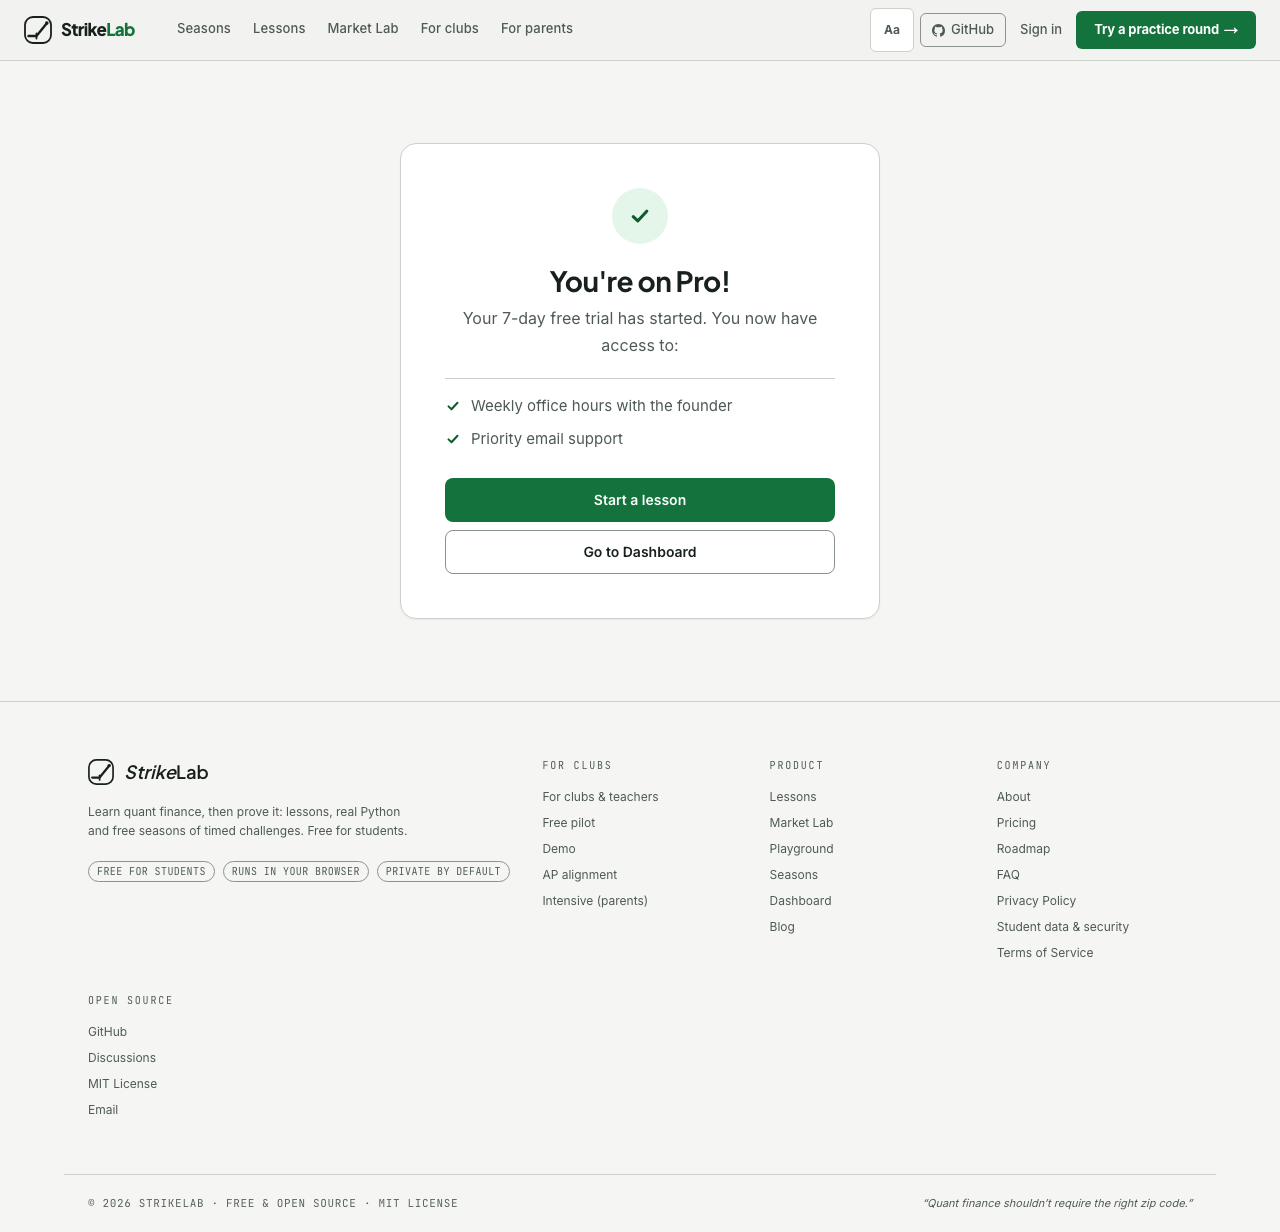
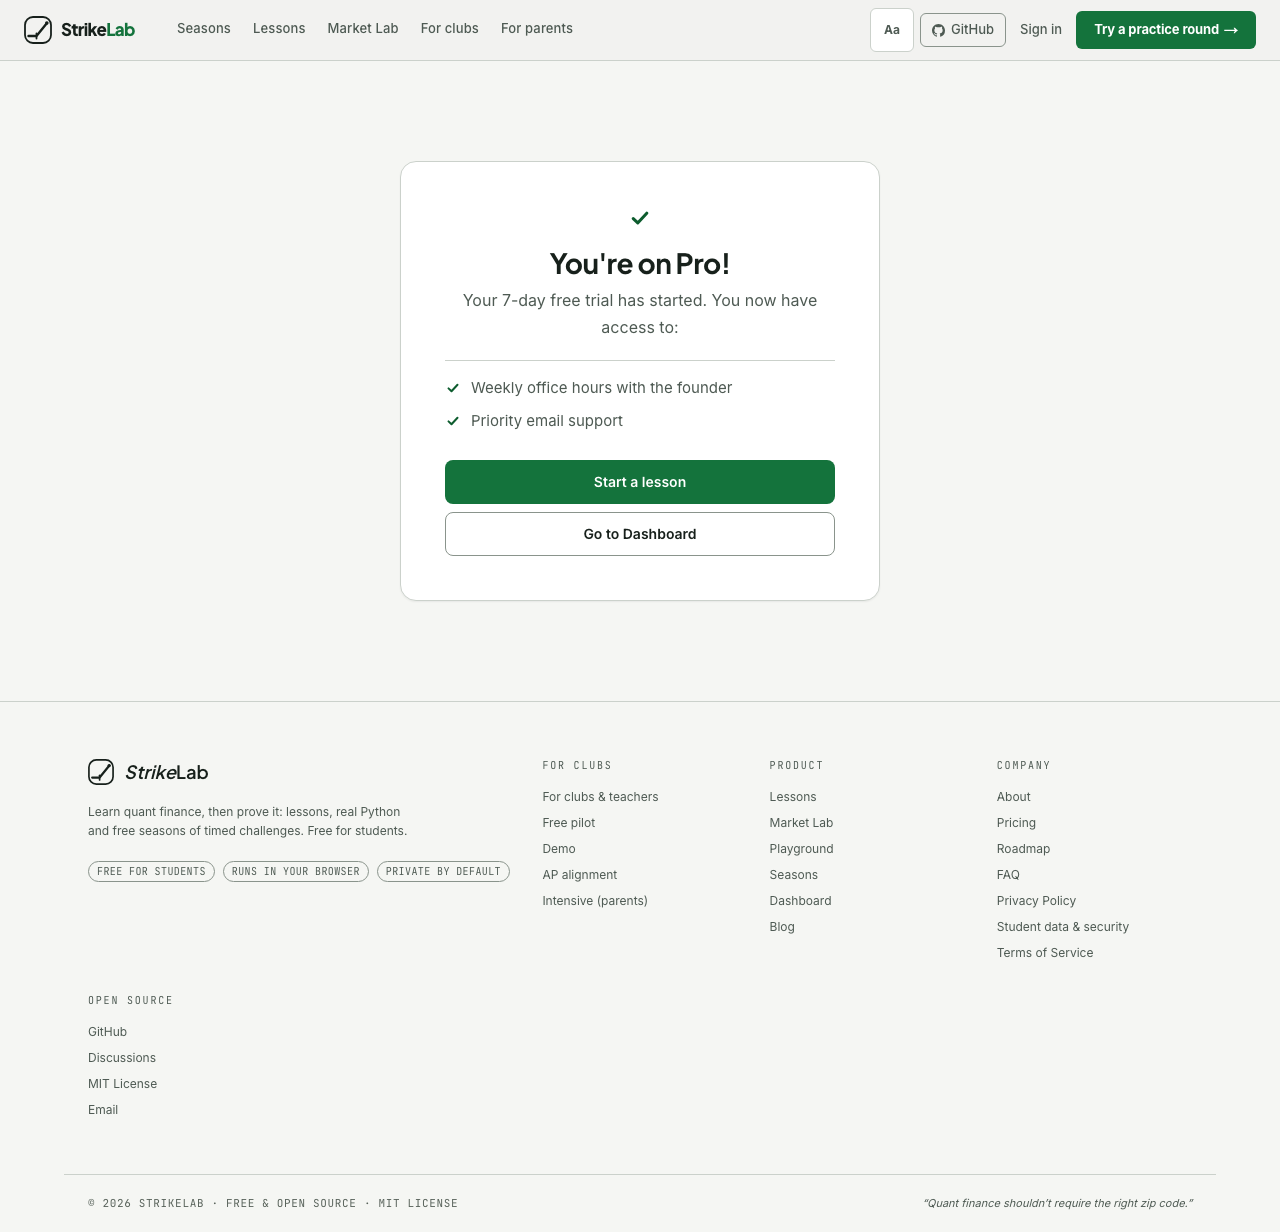
fix(seasons): review fixes for the record, countdown, parse errors and CI
- /record lists only concepts from weeks that have opened as "Tested" and
  "Assessed", so a student halfway through a season isn't credited with
  weeks that haven't run. Unverified capstones read "Not yet verified".
- The planned-start countdown finds midnight in New York for the date (EST
  or EDT) instead of assuming -05:00.
- plainParseError names the line from the student's frame first: the body
  to indent, or where a triple-quoted string opens, not the def or EOF.
- The no-database countdown test only runs while the planned start is
  still ahead, so CI stays green during the season.
- Success page: a plain glyph instead of an icon in a filled circle.

Changed region(s): [[0.3438, 0.1542, 0.6562, 0.4627]]

diff --git a/src/app/record/page.tsx b/src/app/record/page.tsx
@@ -23,10 +23,13 @@ function date(iso: string | null): string {
   return new Intl.DateTimeFormat("en-US", { dateStyle: "medium", timeZone: SEASON_TIME_ZONE }).format(new Date(iso));
 }
 
-/** Concepts assessed in a season, in week order, from its public challenge slots. */
-function topicsFor(challenges: (RecordChallengeRow & { template_slug?: string })[], seasonId: string): string[] {
+type ChallengeWithTopic = RecordChallengeRow & { template_slug?: string; opens_at?: string };
+
+/** Concepts assessed so far in a season, in week order: weeks that haven't opened yet aren't "tested". */
+function topicsFor(challenges: ChallengeWithTopic[], seasonId: string, now: Date): string[] {
   const concepts = challenges
     .filter((challenge) => challenge.season_id === seasonId)
+    .filter((challenge) => Boolean(challenge.opens_at) && Date.parse(challenge.opens_at!) <= now.getTime())
     .sort((a, b) => a.week - b.week)
     .map((challenge) => (challenge.template_slug ? getTemplate(challenge.template_slug)?.concept : undefined))
     .filter((concept): concept is string => Boolean(concept));
@@ -51,9 +54,10 @@ export default async function RecordPage() {
   ]);
   const seasons = (seasonResult.data ?? []) as RecordSeasonRow[];
   const challengeResult = seasons.length > 0
-    ? await supabase.from("season_challenges").select("id, season_id, week, template_slug").in("season_id", seasons.map((season) => season.id))
+    ? await supabase.from("season_challenges").select("id, season_id, week, template_slug, opens_at").in("season_id", seasons.map((season) => season.id))
     : { data: [], error: null };
-  const challenges = (challengeResult.data ?? []) as (RecordChallengeRow & { template_slug?: string })[];
+  const challenges = (challengeResult.data ?? []) as ChallengeWithTopic[];
+  const now = new Date();
   const attemptResult = challenges.length > 0
     ? await supabase.from("season_attempts").select("challenge_id, status, official_score")
       .eq("user_id", auth.user.id).in("challenge_id", challenges.map((challenge) => challenge.id))
@@ -83,19 +87,19 @@ export default async function RecordPage() {
     ? linkedInCredential(shared, Object.fromEntries(seasons.map((season) => [season.id, season.title])))
     : null;
   const seasonTitles = view.seasons.map((season) => season.title);
-  const assessed = [...new Set(view.seasons.flatMap((season) => topicsFor(challenges, season.id)))];
+  const assessed = [...new Set(view.seasons.flatMap((season) => topicsFor(challenges, season.id, now)))];
 
   return (
     <div className={styles.page}>
       <CredentialHeader
         visibility="Private · only you can see this page"
         title="Your record"
-        lede="Your season scores and the work behind them. Placings stay provisional until they're confirmed in a short live defense."
+        lede="Your season scores and the work behind them. A top-10 placing stays provisional until it's confirmed in a short live defense."
         facts={[
           { label: "Issued by", value: "StrikeLab" },
           { label: "Holder", value: handle ? `@${handle}` : "No handle yet" },
           { label: "Seasons", value: seasonTitles.length ? seasonTitles.join(", ") : "None yet" },
-          { label: "As of", value: date(new Date().toISOString()) },
+          { label: "As of", value: date(now.toISOString()) },
           { label: "Assessed", value: assessed.length ? assessed.join(", ") : "Shown once you compete" },
           { label: "Rules", value: <RulesLink /> },
         ]}
@@ -109,7 +113,7 @@ export default async function RecordPage() {
           const state: PlacingState = season.placingVerifiedAt
             ? { kind: "verified", at: season.placingVerifiedAt }
             : season.finished && (season.rank === null || season.rank > 10) ? { kind: "final" } : { kind: "provisional" };
-          const topics = topicsFor(challenges, season.id);
+          const topics = topicsFor(challenges, season.id, now);
           const weeks = challenges.filter((challenge) => challenge.season_id === season.id).length;
           return (
             <li className={styles.row} key={season.id}>
@@ -150,7 +154,7 @@ export default async function RecordPage() {
           <li className={styles.row} key={capstone.id}>
             <div className={styles.rowHead}>
               <h3>{capstone.title}</h3>
-              <PlacingBadge state={capstone.verifiedAt ? { kind: "verified", at: capstone.verifiedAt } : { kind: "provisional" }} date={date} />
+              <PlacingBadge state={capstone.verifiedAt ? { kind: "verified", at: capstone.verifiedAt } : { kind: "pending" }} date={date} />
             </div>
             <p className={styles.rowText}>
               Submitted {date(capstone.submittedAt)}.{" "}

diff --git a/src/lib/pythonErrors.test.ts b/src/lib/pythonErrors.test.ts
@@ -69,8 +69,9 @@ describe("plainParseError", () => {
   });
 
   it("explains indentation errors in words", () => {
+    // Python names the def ("on line 2"); the line to indent is the frame's, line 3.
     expect(plainParseError(parseError(3, "return S", "IndentationError: expected an indented block after function definition on line 2")))
-      .toBe("Line 2 needs to be indented: the lines inside a def, if or for go 4 spaces in.");
+      .toBe("Line 3 needs to be indented: the lines inside a def, if or for go 4 spaces in.");
     expect(plainParseError(parseError(4, "  x = 1", "IndentationError: unexpected indent")))
       .toBe("Line 4 is indented when Python didn't expect it. Line it up with the line above.");
     expect(plainParseError(parseError(5, "x", "IndentationError: unindent does not match any outer indentation level")))
@@ -84,6 +85,12 @@ describe("plainParseError", () => {
       .toBe("Line 2 is missing a colon. Lines starting with def, if, for or else end with :.");
     expect(plainParseError(parseError(6, "print('hi)", "SyntaxError: unterminated string literal (detected at line 6)")))
       .toBe("A quote on line 6 is never closed. Strings need a matching ' or \".");
+    // A triple-quoted string is reported where it opens, "detected" at the end of the file.
+    expect(plainParseError(parseError(5, '"""notes', "SyntaxError: unterminated triple-quoted string literal (detected at line 12)")))
+      .toBe("A quote on line 5 is never closed. Strings need a matching ' or \".");
+    // With no frame, the message's own line is used.
+    expect(plainParseError("SyntaxError: unterminated string literal (detected at line 4)"))
+      .toBe("A quote on line 4 is never closed. Strings need a matching ' or \".");
     expect(plainParseError(parseError(7, "x = = 1", "SyntaxError: invalid syntax")))
       .toBe("Python couldn't read your code at line 7. Look for a typo, a missing bracket or a missing colon there.");
   });

diff --git a/src/lib/seasons/countdown.ts b/src/lib/seasons/countdown.ts
@@ -27,7 +27,7 @@ export function nextChallenge(now: Date, weeks: readonly ScheduledWeek[], planne
   const t = now.getTime();
   if (weeks.length === 0) {
     if (!plannedStart) return null;
-    const opensAt = new Date(`${plannedStart}T00:00:00-05:00`).toISOString();
+    const opensAt = easternMidnight(plannedStart);
     return Date.parse(opensAt) > t ? { kind: "opens", id: null, week: 1, opensAt } : null;
   }
   const sorted = [...weeks].sort((a, b) => Date.parse(a.opens_at) - Date.parse(b.opens_at));
@@ -37,6 +37,16 @@ export function nextChallenge(now: Date, weeks: readonly ScheduledWeek[], planne
   if (open) return { kind: "open", id: open.id, week: open.week, closesAt: open.closes_at };
   if (upcoming) return { kind: "opens", id: upcoming.id, week: upcoming.week, opensAt: upcoming.opens_at };
   return null;
+}
+
+const OFFSET = new Intl.DateTimeFormat("en-US", { timeZone: SEASON_TIME_ZONE, timeZoneName: "longOffset" });
+
+/** Midnight in New York on `day` (YYYY-MM-DD) as an ISO instant, in either EST or EDT. */
+export function easternMidnight(day: string): string {
+  // Midday UTC is the same calendar day in New York and safely clear of a DST switch (2am local).
+  const name = OFFSET.formatToParts(new Date(`${day}T12:00:00Z`)).find((part) => part.type === "timeZoneName")?.value ?? "GMT-05:00";
+  const offset = name === "GMT" ? "+00:00" : name.replace("GMT", "");
+  return new Date(`${day}T00:00:00${offset}`).toISOString();
 }
 
 const plural = (n: number, unit: string) => `${n} ${unit}${n === 1 ? "" : "s"}`;

diff --git a/src/lib/seasons/countdown.test.ts b/src/lib/seasons/countdown.test.ts
@@ -1,5 +1,5 @@
 import { describe, expect, it } from "vitest";
-import { countdown, easternWhen, nextChallenge } from "./countdown";
+import { countdown, easternMidnight, easternWhen, nextChallenge } from "./countdown";
 
 // Midnight to 23:59 Eastern, as in supabase/seed/season-1.sql.
 const weeks = [
@@ -37,6 +37,14 @@ describe("countdown", () => {
     expect(countdown(at, "2026-11-22T17:09:00Z")).toEqual({ compact: "5h 09m", words: "5 hours and 9 minutes" });
     expect(countdown(at, "2026-11-22T12:01:01Z")).toEqual({ compact: "1m 01s", words: "1 minute and 1 second" });
     expect(countdown(at, "2026-11-22T11:00:00Z").compact).toBe("0m 00s");
+  });
+});
+
+describe("easternMidnight", () => {
+  it("uses EST in winter and EDT in summer", () => {
+    expect(easternMidnight("2026-11-30")).toBe("2026-11-30T05:00:00.000Z");
+    expect(easternMidnight("2027-06-07")).toBe("2027-06-07T04:00:00.000Z");
+    expect(easternWhen(easternMidnight("2027-06-07"))).toBe("Mon, Jun 7, 12:00 AM ET");
   });
 });
 

diff --git a/src/lib/pythonErrors.ts b/src/lib/pythonErrors.ts
@@ -43,10 +43,13 @@ export function plainParseError(text: string): string | null {
   const match = PARSE_ERROR.exec(text);
   if (!match) return null;
   const [, kind, detail] = match;
-  // The last "line N" before the error names the line Python stopped on.
-  const lines = [...text.slice(0, match.index).matchAll(/line (\d+)/g)];
+  // The student's frame (`File "<exec>", line N`) names the line to fix: the
+  // unindented body, or where an open string starts. The "on line" / "detected
+  // at line" in the message points elsewhere (the def, the end of the file), so
+  // it is only a fallback.
+  const frames = [...text.slice(0, match.index).matchAll(/File "<exec>", line (\d+)/g)];
   const lineNo = /\(detected at line (\d+)\)|on line (\d+)/.exec(detail);
-  const n = lineNo?.[1] ?? lineNo?.[2] ?? lines.at(-1)?.[1];
+  const n = frames.at(-1)?.[1] ?? lineNo?.[1] ?? lineNo?.[2];
   const at = n ? `line ${n}` : "one line";
   const At = n ? `Line ${n}` : "One line";
 

diff --git a/tests/season-workspace.spec.ts b/tests/season-workspace.spec.ts
@@ -216,8 +216,10 @@ test("the next opening is in the server HTML, with one calendar action that has 
   const page = await context.newPage();
   await page.goto("/seasons");
   const timer = page.getByRole("timer");
-  if (await page.getByText("Season ended", { exact: true }).count()) return; // nothing left to count down to
-  await expect(page.getByText(/^(Next challenge opens in|Week \d is open now · closes in)$/)).toBeVisible();
+  // Without a database the page counts down to the planned start; once that has
+  // passed there is nothing to count down to, so only check before it.
+  if (!(await page.getByText(/^Starts [A-Z][a-z]+ \d+$/).count())) return;
+  await expect(page.getByText("Next challenge opens in", { exact: true })).toBeVisible();
   await expect(timer).toHaveText(/\d+(d|h|m)/);
   const calendar = page.getByRole("link", { name: /to your calendar/ });
   await expect(calendar).toHaveCount(1);

diff --git a/src/components/seasons/Credential.tsx b/src/components/seasons/Credential.tsx
@@ -43,6 +43,7 @@ export function CredentialHeader({
 export type PlacingState =
   | { kind: "verified"; at: string }
   | { kind: "provisional" }
+  | { kind: "pending" }
   | { kind: "final" };
 
 /** Text first, colour second: the word says the status on its own. */
@@ -57,7 +58,7 @@ export function PlacingBadge({ state, date }: { state: PlacingState; date: (iso:
       </span>
     );
   }
-  return <span className={styles.badge} data-kind={state.kind}>{state.kind === "provisional" ? "Provisional" : "Final"}</span>;
+  return <span className={styles.badge} data-kind={state.kind}>{state.kind === "provisional" ? "Provisional" : state.kind === "pending" ? "Not yet verified" : "Final"}</span>;
 }
 
 export function CredentialSection({ id, title, meta, children }: { id: string; title: string; meta?: ReactNode; children: ReactNode }) {

diff --git a/src/app/success/success.module.css b/src/app/success/success.module.css
@@ -17,24 +17,19 @@
   text-align: center;
 }
 
+/* A plain glyph above the heading; no filled circle behind it. */
 .mark {
-  width: 3.5rem;
-  height: 3.5rem;
-  display: grid;
-  place-items: center;
-  margin: 0 auto 1.25rem;
-  border-radius: var(--sl-radius-pill);
-  background: var(--sl-brand-soft);
+  display: flex;
+  justify-content: center;
+  margin: 0 auto 1rem;
   color: var(--sl-brand-strong);
 }
 
 .mark[data-tone="error"] {
-  background: var(--sl-danger-soft);
   color: var(--sl-danger);
 }
 
 .mark[data-tone="pending"] {
-  background: var(--sl-canvas-subtle);
   color: var(--sl-text-muted);
 }
 
